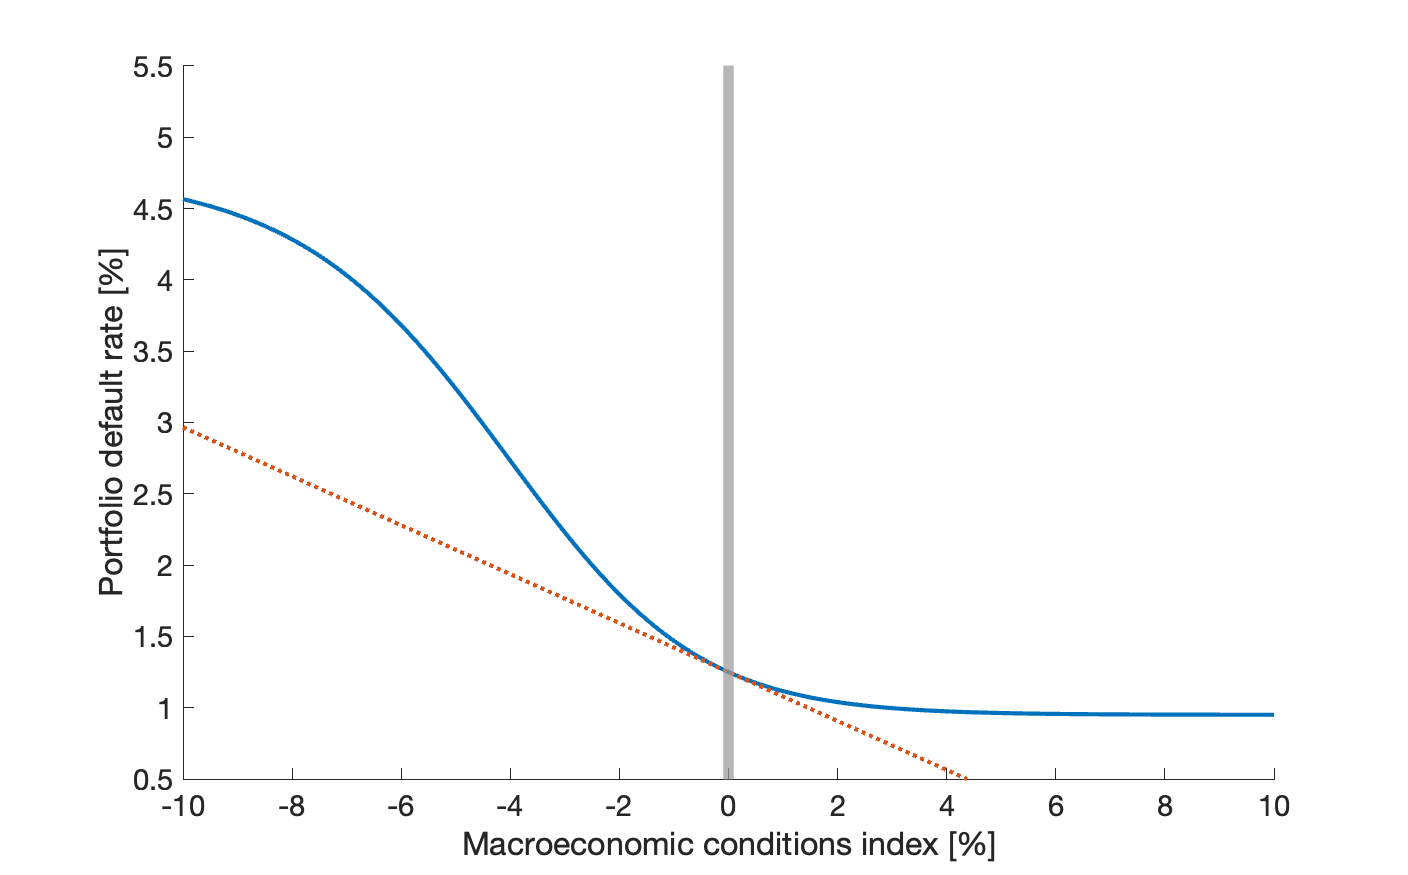
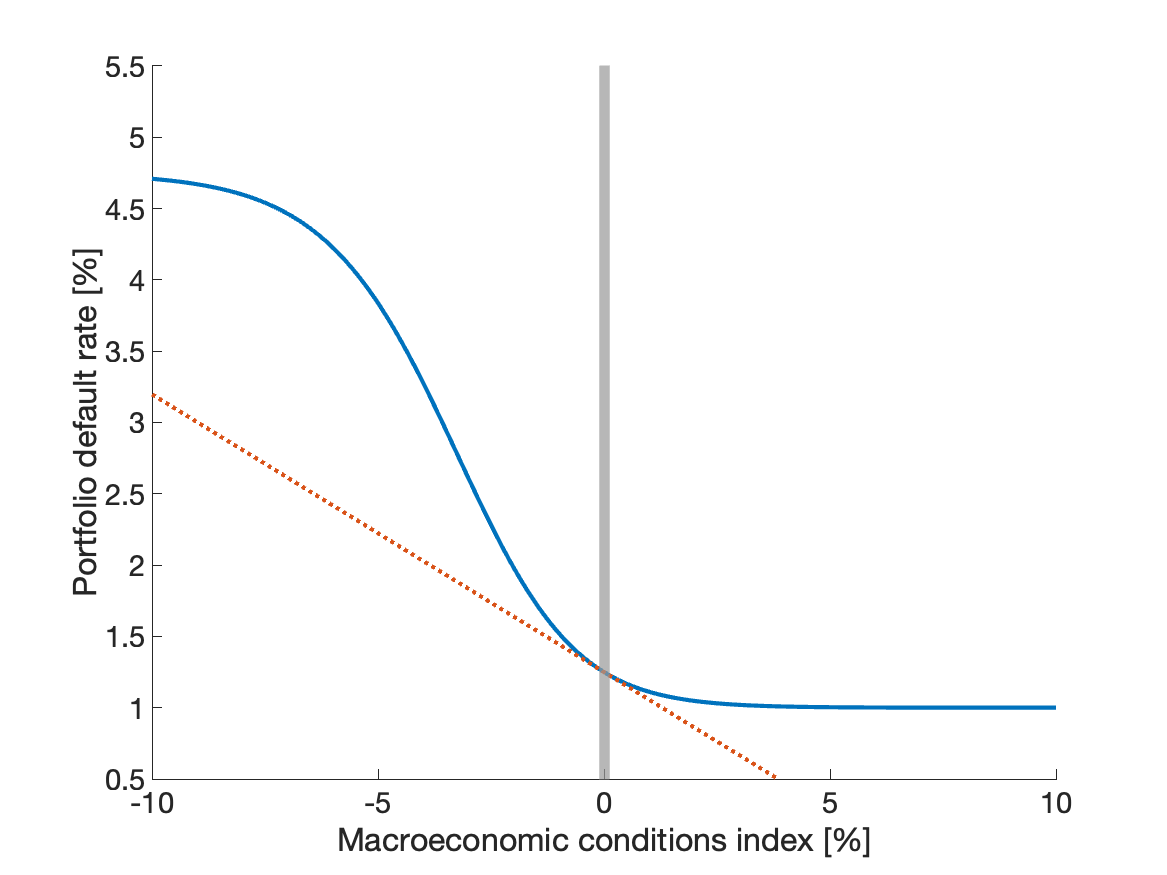
Cleanup

diff --git a/matlab/+rwanda/prepareBankingData.m b/matlab/+rwanda/prepareBankingData.m
@@ -1,15 +1,21 @@
+%% Read and preprocess banking data
 
 close all
 clear
 
 load +rwanda/mat/prepareMacroData.mat endHist
 
+
+%% Load raw data from XLSX file
+
 h = databank.fromSheet("+rwanda/banking-data.xlsx");
 
-% Monthly to quarterly
+% Frequency conversion: Monthly to quarterly
 h.QQ_NEW_L = convert(h.MM_NEW_L, Frequency.QUARTERLY, "method", "sum");
 h.QQ_RL = convert(h.MM_RL, Frequency.QUARTERLY, "method", "mean");
 
+
+%% Create model-consistent databank
 
 b = struct();
 
@@ -23,14 +29,16 @@ b.l_fcy = h.QQ_L_FCY * rescale;
 b.onfx = -h.QQ_ONFX * rescale;
 b.new_l = h.QQ_NEW_L * rescale;
 b.ln = h.QQ_LN * rescale;
+b.rwa = h.QQ_RWA * rescale;
+b.bg = h.QQ_BG * rescale;
+
 b.pnl_int_l = diff(h.QQ_PNL_INT_L, "tty") * rescale;
 b.pnl_int_d = -diff(h.QQ_PNL_INT_D1 + h.QQ_PNL_INT_D2, "tty") * rescale;
 b.pnl_prov = -diff(h.QQ_PNL_PROV, "tty") * rescale;
 b.pnl = diff(h.QQ_PNL, "tty") * rescale;
 b.pnl_at = diff(h.QQ_PNL_AT, "tty") * rescale;
+
 b.rbk_at1 = h.QQ_RBK_AT / 4;
-b.rwa = h.QQ_RWA * rescale;
-b.bg = h.QQ_BG * rescale;
 b.rl = h.QQ_RL / 400;
 b.car = b.bg / b.rwa;
 
@@ -48,11 +56,11 @@ b.lp_to_l = b.lp / b.l;
 b.ona = b.tna - b.le;
 b.ona_to_tna = b.ona / b.tna;
 b.onfx_to_bk = b.onfx / b.bk;
-b.rbk_at2 = b.pnl_at / b.bk{-1};
-b.rbk = x13.season(b.pnl / b.bk{-1}, "output", "tc");
 b.sigma = b.l_fcy / b.l;
 b.d_fcy_to_d = (b.l_fcy + b.onfx) / b.d;
 
+b.rbk_at2 = b.pnl_at / b.bk{-1};
+b.rbk = x13.season(b.pnl / b.bk{-1}, "output", "tc");
 b.rl_alt = x13.season(b.pnl_int_l / b.l{-1}, "output", "tc");
 
 b.ap = b.a;
@@ -61,7 +69,9 @@ b.ap_to_l = b.ap / b.l;
 b.rd_lcy = -b.pnl_int_d / b.d{-1};
 b.rd_lcy = x13.season(b.rd_lcy, "output", "tc");
 
-% Create hypothetical HH segment
+
+%% Create hypothetical HH segment
+
 b = databank.copy( ...
     b ...
     , "sourceNames", ["l", "ln", "lp", "le", "rl", "sigma", "ap", "lp_to_l", "ln_to_l"] ...
@@ -69,6 +79,13 @@ b = databank.copy( ...
     , "targetDb", b ...
 );
 
+% Equivalent to running
+% b.l_hh = b.l;
+% b.ln_hh = b.ln;
+% etc.
+
+
+%% Save databank to mat file
 
 save +rwanda/mat/prepareBankingData.mat b
 

diff --git a/matlab/illustrateDefaultRateFunc.m b/matlab/illustrateDefaultRateFunc.m
@@ -3,16 +3,16 @@ close all
 clear
 load mat/createModel.mat m
 
-m.c2_q_hh = 0.020;
-m.c4_q_hh = -0.003;
+%m.c2_q_hh = 0.020;
+%m.c4_q_hh = -0.003;
 m = steady(m);
 
-ss = access(m, "steady-level");
+ms = access(m, "steady-level");
 
 z = linspace(-0.10, 0.10, 500);
 
 z = reshape(z, [], 1);
-q = glogc(-z, ss.ss_q_hh, ss.c2_q_hh, ss.c3_q_hh, ss.c4_q_hh, ss.c5_q_hh);
+q = glogc(-z, ms.ss_q_hh, ms.c2_q_hh, ms.c3_q_hh, ms.c4_q_hh, ms.c5_q_hh);
 
 figure();
 hold on
@@ -23,8 +23,8 @@ plot(100*z, 100*q);
 xlabel("Macroeconomic conditions index [%]");
 ylabel("Portfolio default rate [%]");
 
-slope = glogd(0, ss.ss_q_hh, ss.c2_q_hh, ss.c3_q_hh, ss.c4_q_hh, ss.c5_q_hh);
-ql = ss.q + slope * (-z);
+slope = glogd(0, ms.ss_q_hh, ms.c2_q_hh, ms.c3_q_hh, ms.c4_q_hh, ms.c5_q_hh);
+ql = ms.q + slope * (-z);
 
 plot(100*z, 100*ql, "lineStyle", ":");
 

diff --git a/matlab/+rwanda/prepareMacroData.m b/matlab/+rwanda/prepareMacroData.m
@@ -1,12 +1,18 @@
+%% Load and prepare macro data
 
 close all
 clear
+
+
+%% Load raw data from XLSX file
 
 startHist = qq(2010,1);
 endHist = qq(2022,3);
 startScenario = endHist + 1;
 
 h = databank.fromSheet("+rwanda/macro-data.xlsx");
+
+% Run seasonal adjustment and frequency conversion
 
 h.QQ_Y = x13.season(h.QQ_Y_SU);
 h.QQ_NY = x13.season(h.QQ_NY_SU);
@@ -20,6 +26,8 @@ h.QQ_RW = convert(h.MM_RW, Frequency.QUARTERLY);
 
 h.QQ_E = convert(h.DD_E, Frequency.QUARTERLY, "removeMissing", true);
 
+
+%% Create model consistent databank
 
 a = struct();
 
@@ -79,6 +87,9 @@ a.x = Series(endHist, 0);
 
 load +rwanda/mat/createMacroModel.mat n
 checkInitials(n, a, startScenario);
+
+
+%% Save databank to mat file
 
 save +rwanda/mat/prepareMacroData.mat a startHist endHist
 

diff --git a/matlab/+rwanda/prepareAllData.m b/matlab/+rwanda/prepareAllData.m
@@ -2,7 +2,7 @@
 close all
 clear
 
-% rwanda.prepareMacroData
+rwanda.prepareMacroData
 rwanda.prepareBankingData
 
 load +rwanda/mat/prepareMacroData.mat a startHist endHist
@@ -14,7 +14,9 @@ d = databank.merge("error", a, b);
 d.l_to_4ny = d.l / (4*d.ny);
 d.new_l_to_ny = d.new_l / d.ny;
 
+
 % Create hypothetical HH segment
+
 d = databank.copy( ...
     d ...
     , "sourceNames", ["l_to_4ny", "new_l_to_ny"] ...
@@ -25,6 +27,6 @@ d = databank.copy( ...
 
 save +rwanda/mat/prepareAllData.mat d startHist endHist
 
-startScenario = endHist + 1;
-checkInitials(m, d, startScenario);
+% startScenario = endHist + 1;
+% checkInitials(m, d, startScenario);
 
